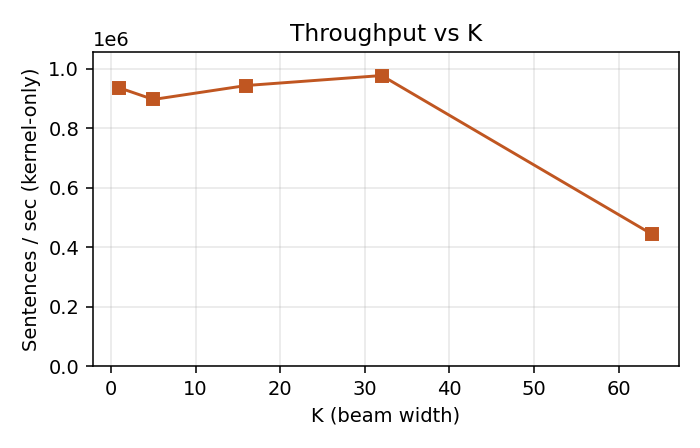
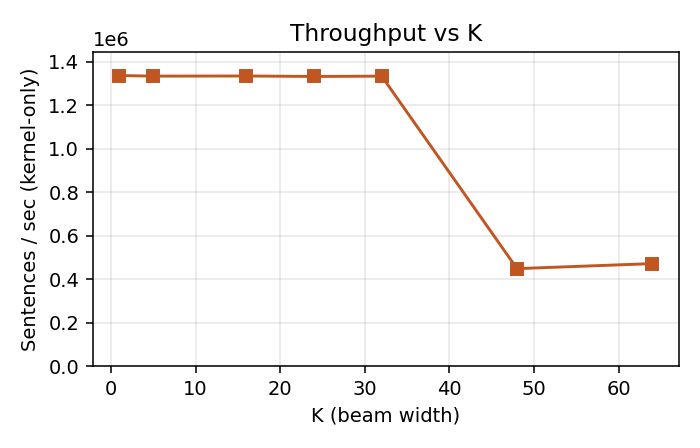
fixed tables with more powers of 2 batching

diff --git a/cushr_gpu/make_benchmark_md.py b/cushr_gpu/make_benchmark_md.py
@@ -145,15 +145,23 @@ def top_stalls(metrics, n=2):
     return stalls[:n]
 
 
-def load_ncu(outdir, prefix="ncu_kbest"):
-    """Return {K: {metric: value}} for every <prefix>_K*.csv found.
+def load_ncu(outdir, prefix="ncu_kbest", tag=""):
+    """Return {K: {metric: value}} for every <prefix>_K<N>[_<tag>].csv found.
 
     prefix defaults to the Week-7 K2 files (ncu_kbest_K*.csv); pass
     prefix="ncu_batched" to pick up the Week-8 batched profiles instead.
+
+    profile_batched.slurm tags each run (TAG=baseline, TAG=branchless, or a
+    timestamp) so several profiles of different kernel revisions can coexist.
+    Pass tag="branchless" to select one explicitly -- without it only the
+    untagged <prefix>_K<N>.csv is read, so a stale profile can never sneak into
+    a report just because it happens to sort first.
     """
+    suffix = f"_{tag}" if tag else ""
     out = {}
-    for path in glob.glob(os.path.join(outdir, f"{prefix}_K*.csv")):
-        m = re.search(re.escape(prefix) + r"_K(\d+)\.csv$", os.path.basename(path))
+    for path in glob.glob(os.path.join(outdir, f"{prefix}_K*{suffix}.csv")):
+        m = re.search(re.escape(prefix) + r"_K(\d+)" + re.escape(suffix) + r"\.csv$",
+                      os.path.basename(path))
         if not m:
             continue
         parsed = parse_ncu_csv(path)
@@ -396,6 +404,11 @@ def main():
     ap.add_argument("--recall-note", default="",
                     help="extra caption under the recall heading, e.g. to note "
                          "that batched recall is an invariant spot-check vs K2")
+    ap.add_argument("--ncu-tag", default="", metavar="TAG",
+                    help="select tagged profile CSVs written by "
+                         "profile_batched.slurm, i.e. <prefix>_K<N>_<TAG>.csv "
+                         "(e.g. --ncu-tag branchless). Default reads only the "
+                         "untagged <prefix>_K<N>.csv.")
     ap.add_argument("--sweep", action="append", default=[], metavar="LABEL=CSV",
                     help="add a row to the batch-size sweep tables, e.g. "
                          "--sweep 256=batched_bench_b256.csv . Repeatable; rows "
@@ -412,7 +425,7 @@ def main():
                          "bench_batched.slurm (batched_bench.csv) first.")
 
     rows = load_bench(args.bench)
-    ncu = load_ncu(args.outdir, prefix=args.ncu_prefix)
+    ncu = load_ncu(args.outdir, prefix=args.ncu_prefix, tag=args.ncu_tag)
 
     sweeps = []
     for spec in args.sweep:

diff --git a/cushr_gpu/BATCHED_BENCHMARK.md b/cushr_gpu/BATCHED_BENCHMARK.md
@@ -14,11 +14,13 @@ above and below the markers, never inside them — an inject overwrites it.
 
 | K | sent/sec (kernel) | µs/sent (kernel) | µs/sent (loop) | table MB | used MB |
 |---|------------------:|-----------------:|---------------:|---------:|--------:|
-| 1 | 936194 | 1.1 | 1.1 | 68.5 | 72.0 |
-| 5 | 897267 | 1.1 | 1.1 | 273.9 | 276.0 |
-| 16 | 944192 | 1.1 | 1.1 | 838.9 | 840.0 |
-| 32 | 977700 | 1.0 | 1.0 | 1660.7 | 1662.0 |
-| 64 | 443596 | 2.3 | 2.3 | 3304.3 | 3306.0 |
+| 1 | 1337576 | 0.7 | 0.7 | 68.5 | 72.0 |
+| 5 | 1334898 | 0.7 | 0.8 | 273.9 | 276.0 |
+| 16 | 1335448 | 0.7 | 0.8 | 838.9 | 840.0 |
+| 24 | 1333388 | 0.8 | 0.8 | 1249.8 | 1254.0 |
+| 32 | 1334776 | 0.7 | 0.8 | 1660.7 | 1662.0 |
+| 48 | 449624 | 2.2 | 2.2 | 2482.5 | 2484.0 |
+| 64 | 472741 | 2.1 | 2.1 | 3304.3 | 3306.0 |
 
 ## Launch count (batched sweep)
 
@@ -29,7 +31,9 @@ One `kbest_merge_level` launch per topo level per chunk, covering that level's n
 | 1 | 1 | 50 | 2390 |
 | 5 | 1 | 50 | 2390 |
 | 16 | 1 | 50 | 2390 |
+| 24 | 1 | 50 | 2390 |
 | 32 | 1 | 50 | 2390 |
+| 48 | 1 | 50 | 2390 |
 | 64 | 1 | 50 | 2390 |
 
 ## Batch-size sweep (memory vs speed)
@@ -40,23 +44,31 @@ One `kbest_merge_level` launch per topo level per chunk, covering that level's n
 
 Whole-corpus (`--batch -1`) allocates the full table; this is the column the K2 driver has no answer to.
 
-| batch | chunks | launches | K=1 | K=5 | K=16 | K=32 | K=64 |
-|---|-------:|---------:|------:|------:|------:|------:|------:|
-| 256 | 467 | 10126 | 2 | 2 | 4 | 6 | 14 |
-| 1024 | 117 | 3139 | 2 | 4 | 14 | 20 | 38 |
-| 4096 | 30 | 1003 | 4 | 14 | 38 | 68 | 128 |
-| -1 (whole corpus) | 1 | 50 | 72 | 276 | 840 | 1662 | 3306 |
+| batch | chunks | launches | K=1 | K=5 | K=16 | K=24 | K=32 | K=48 | K=64 |
+|---|-------:|---------:|------:|------:|------:|------:|------:|------:|------:|
+| 256 | 467 | 10126 | 2 | 2 | 4 | 6 | 6 | 14 | 14 |
+| 1024 | 117 | 3139 | 2 | 4 | 14 | 20 | 20 | 32 | 38 |
+| 4096 | 30 | 1003 | 4 | 14 | 38 | 50 | 68 | 98 | 128 |
+| 8192 | 15 | 568 | 8 | 26 | 62 | 92 | 122 | 182 | 242 |
+| 16384 | 8 | 324 | 16 | 46 | 124 | 178 | 238 | 352 | 472 |
+| 32768 | 4 | 176 | 24 | 78 | 234 | 348 | 462 | 690 | 918 |
+| 65536 | 2 | 94 | 40 | 154 | 466 | 694 | 916 | 1372 | 1822 |
+| -1 (whole corpus) | 1 | 50 | 72 | 276 | 840 | 1254 | 1662 | 2484 | 3306 |
 
 ### Throughput (sent/sec, kernel)
 
 Same total work in every row — only the chunking differs.
 
-| batch | chunks | launches | K=1 | K=5 | K=16 | K=32 | K=64 |
-|---|-------:|---------:|------:|------:|------:|------:|------:|
-| 256 | 467 | 10126 | 78114 | 74664 | 77347 | 80332 | 32147 |
-| 1024 | 117 | 3139 | 170719 | 169379 | 180651 | 177572 | 74902 |
-| 4096 | 30 | 1003 | 331754 | 323681 | 357029 | 364633 | 162630 |
-| -1 (whole corpus) | 1 | 50 | 936194 | 897267 | 944192 | 977700 | 443596 |
+| batch | chunks | launches | K=1 | K=5 | K=16 | K=24 | K=32 | K=48 | K=64 |
+|---|-------:|---------:|------:|------:|------:|------:|------:|------:|------:|
+| 256 | 467 | 10126 | 140392 | 156695 | 156254 | 156283 | 156300 | 38566 | 38597 |
+| 1024 | 117 | 3139 | 328192 | 377828 | 377231 | 377001 | 376654 | 93886 | 93926 |
+| 4096 | 30 | 1003 | 541571 | 800608 | 794416 | 792361 | 791539 | 202723 | 201792 |
+| 8192 | 15 | 568 | 797631 | 1084804 | 1072679 | 1070269 | 1068251 | 281251 | 279257 |
+| 16384 | 8 | 324 | 959580 | 1225502 | 1393009 | 1389675 | 1391963 | 370334 | 365598 |
+| 32768 | 4 | 176 | 980353 | 1511627 | 1756954 | 1750392 | 1756531 | 465366 | 458708 |
+| 65536 | 2 | 94 | 1175047 | 1621268 | 2007019 | 2119930 | 2114438 | 551820 | 538259 |
+| -1 (whole corpus) | 1 | 50 | 1337576 | 1334898 | 1335448 | 1333388 | 1334776 | 449624 | 472741 |
 
 ## Top-K recall vs gold
 
@@ -67,7 +79,9 @@ Measured over the 59092 checked sentences that carry a resolved gold path.
 | 1 | 0.0831 |
 | 5 | 0.1663 |
 | 16 | 0.2529 |
+| 24 | 0.2892 |
 | 32 | 0.3104 |
+| 48 | 0.3452 |
 | 64 | 0.3679 |
 
 ![Top-K recall vs K](batched_recall_vs_k.png)

diff --git a/cushr_gpu/COMPARISON.md b/cushr_gpu/COMPARISON.md
@@ -6,13 +6,13 @@ Auto-generated by `compare_k2_k3.py`. Leads with **wall-clock** throughput, beca
 
 | K | K2 wall µs/sent | K3 wall µs/sent | **wall speedup** | K2 sent/sec (wall) | K3 sent/sec (wall) |
 |---|----------------:|----------------:|-----------------:|-------------------:|-------------------:|
-| 1 | 341.0 | 1.1 | 319.0x | 2933 | 935454 |
-| 5 | 342.4 | 1.1 | 306.8x | 2921 | 896057 |
-| 16 | 343.0 | 1.1 | 323.6x | 2915 | 943396 |
-| 24 | 343.9 | — | — | 2908 | — |
-| 32 | 342.3 | 1.0 | 334.2x | 2922 | 976562 |
-| 48 | 845.6 | — | — | 1183 | — |
-| 64 | 844.3 | 2.3 | 374.2x | 1184 | 443262 |
+| 1 | 341.0 | 0.7 | 455.3x | 2933 | 1335113 |
+| 5 | 342.4 | 0.8 | 456.5x | 2921 | 1333333 |
+| 16 | 343.0 | 0.8 | 457.4x | 2915 | 1333333 |
+| 24 | 343.9 | 0.8 | 457.9x | 2908 | 1331558 |
+| 32 | 342.3 | 0.8 | 456.4x | 2922 | 1333333 |
+| 48 | 845.6 | 2.2 | 380.0x | 1183 | 449438 |
+| 64 | 844.3 | 2.1 | 398.8x | 1184 | 472367 |
 
 ## Throughput — kernel only (occupancy win)
 
@@ -20,13 +20,13 @@ Total merge *work* is identical, but K2 launches one tiny grid per sentence (Wee
 
 | K | K2 kernel µs/sent | K3 kernel µs/sent | kernel speedup |
 |---|------------------:|------------------:|---------------:|
-| 1 | 212.8 | 1.1 | 199.28x |
-| 5 | 213.9 | 1.1 | 192.05x |
-| 16 | 214.9 | 1.1 | 202.95x |
-| 24 | 215.2 | — | — |
-| 32 | 214.8 | 1.0 | 210.00x |
-| 48 | 717.3 | — | — |
-| 64 | 716.4 | 2.3 | 317.83x |
+| 1 | 212.8 | 0.7 | 284.54x |
+| 5 | 213.9 | 0.7 | 285.64x |
+| 16 | 214.9 | 0.7 | 286.94x |
+| 24 | 215.2 | 0.8 | 286.91x |
+| 32 | 214.8 | 0.7 | 286.83x |
+| 48 | 717.3 | 2.2 | 322.55x |
+| 64 | 716.4 | 2.1 | 338.72x |
 
 ## Memory — fixed full-corpus (K2) vs chunked (K3)
 
@@ -37,9 +37,9 @@ K2 always allocates the whole-corpus top-K table. K3's `--batch N` sizes the tab
 | 1 | 72.0 | 72.0 | 68.5 | 68.5 |
 | 5 | 276.0 | 276.0 | 273.9 | 273.9 |
 | 16 | 840.0 | 840.0 | 838.9 | 838.9 |
-| 24 | 1254.0 | — | 1249.8 | — |
+| 24 | 1254.0 | 1254.0 | 1249.8 | 1249.8 |
 | 32 | 1662.0 | 1662.0 | 1660.7 | 1660.7 |
-| 48 | 2484.0 | — | 2482.5 | — |
+| 48 | 2484.0 | 2484.0 | 2482.5 | 2482.5 |
 | 64 | 3306.0 | 3306.0 | 3304.3 | 3304.3 |
 
 ### Memory vs batch size (K3, K=32)
@@ -51,6 +51,10 @@ Shows the chunked footprint shrinking as `--batch` drops, against K2's fixed ful
 | 256 | 6.0 |
 | 1024 | 20.0 |
 | 4096 | 68.0 |
+| 8192 | 122.0 |
+| 16384 | 238.0 |
+| 32768 | 462.0 |
+| 65536 | 916.0 |
 | 119503 | 1662.0 |
 
 ![Throughput K2 vs K3](comparison_throughput.png)
